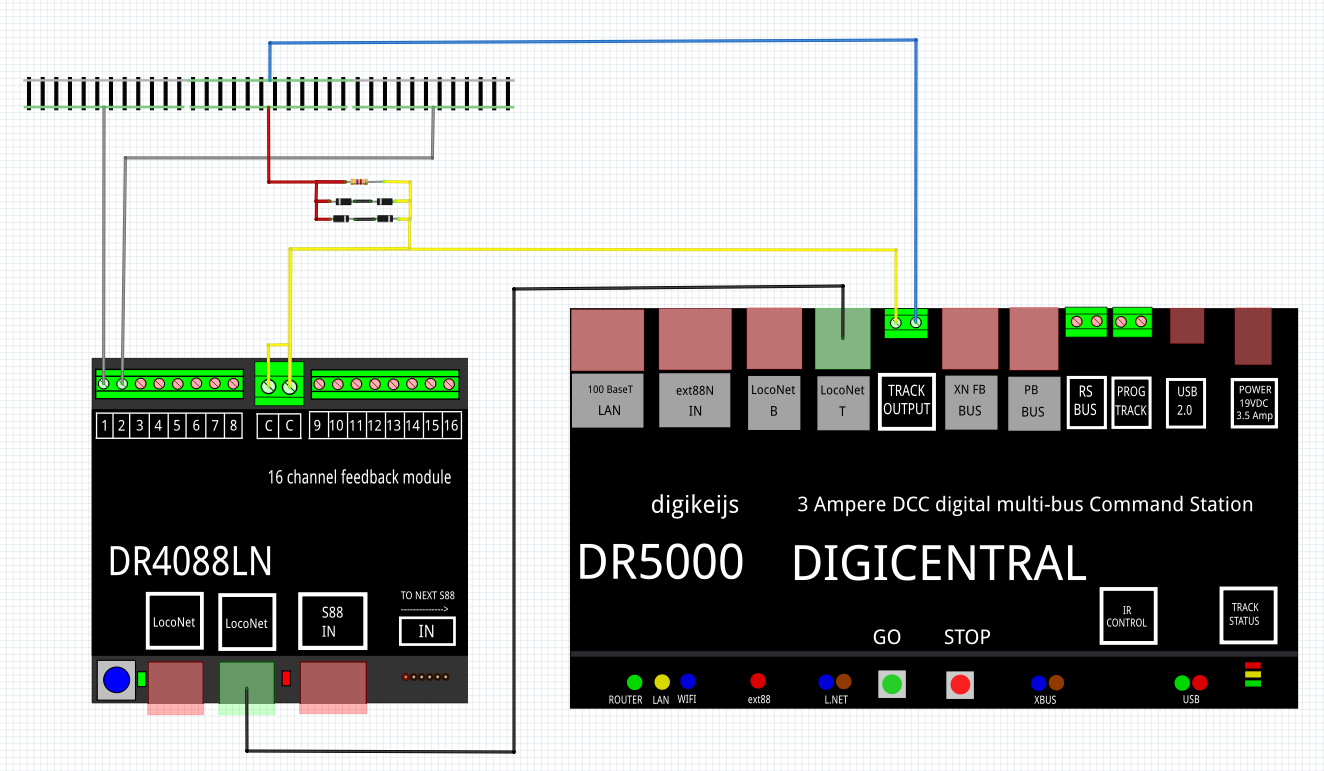
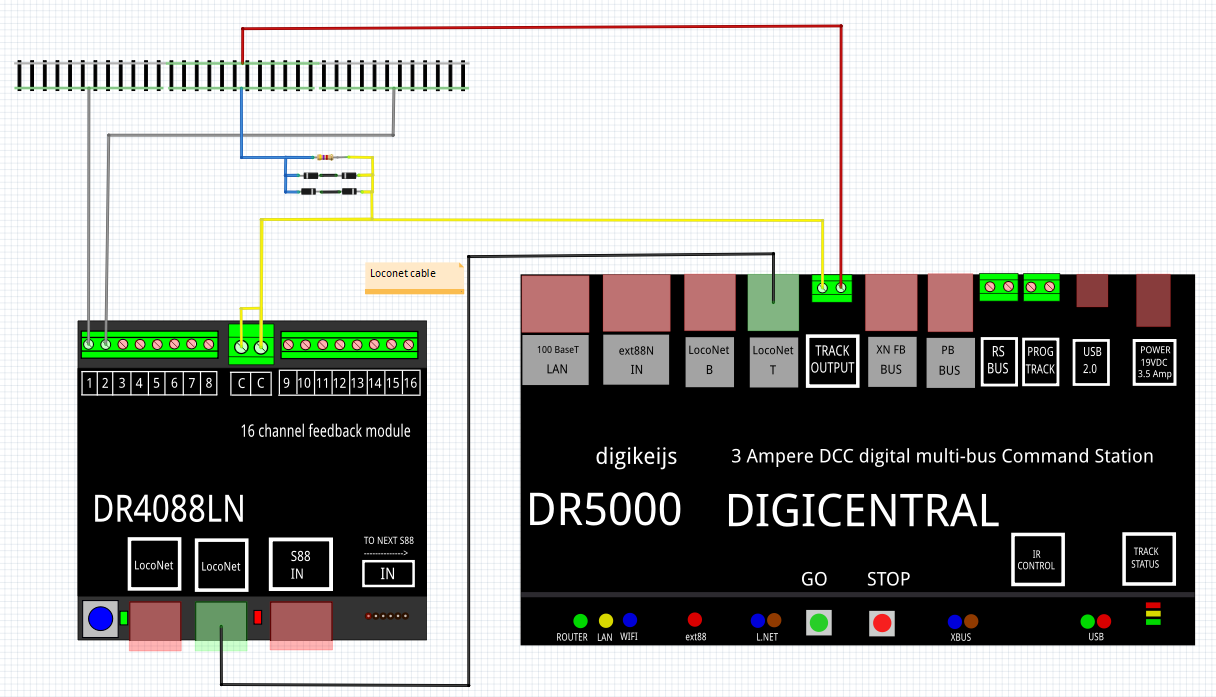
Commit

Changed region(s): [[0.0, 0.0301, 1.0, 0.9943], [0.5938, 0.693, 0.8125, 0.7532], [0.1875, 0.6026, 0.3438, 0.6327]]

diff --git a/README.md b/README.md
@@ -10,17 +10,16 @@ Eddy Luursema Februari 2020
 3.  [DR5000](/DR5000/README.md) gebruik, programmering en RocRail toepassen van het Digikeijs Command station
 4. [DR4088](/DR4088/README.md) gebruik, programmering en RocRail toepassen van de Digikeijs bezetmelder
 5. [ArSigDec](/DCCNext/README.md) gebruik, programmering en RocRail toepassen van de ArCoMoRa schakeldecoder     
-6. [Banenplannen](/Track/README.md)
+6. [Baanontwerp en elektrisch schema](/Track/README.md)
 7. [Tafelconstructie](/Table/README.md)
-8. Elektrisch schema under construction
-9. [DCC-sniffers](./DCCsniffers/README.md)
-10. [DCCplusplus](./DCCplusplus/README.md)
-11. [Gereedschappen](./Hardwaretooling/README.md)
-12. [Softwaretooling](./Softwaretooling.md) met tips voor instellingen
-13. [Fritzing](./Fritzing/README.md) teken elektrische schema's en het maken van eigen onderdelen zoals de DR4018 en seinen
-14. [Projecten](./Projects.md) in de toekomst
-15. Gebruik van [github en github-desktop](/Github/README.md) voor documentatie
-16. [Arduino cursus](/ArduinoCourse/README.md)
+8. [DCC-sniffers](./DCCsniffers/README.md)
+9. [DCCplusplus](./DCCplusplus/README.md)
+10. [Gereedschappen](./Hardwaretooling/README.md)
+11. [Softwaretooling](./Softwaretooling.md) met tips voor instellingen
+12. [Fritzing](./Fritzing/README.md) teken elektrische schema's en het maken van eigen onderdelen zoals de DR4018 en seinen
+13. [Projecten](./Projects.md) in de toekomst
+14. Gebruik van [github en github-desktop](/Github/README.md) voor documentatie
+15. [Arduino cursus](/ArduinoCourse/README.md)
 
 
 # ![English flag](./images/gb.gif)English
@@ -33,14 +32,13 @@ Eddy Luursema February 2020
 3. [DR5000](/DR5000/README.md#English) usage, programming and RocRail configuration of the Digikeijs Command Station
 4. [DR4088](/DR4088/README.md#English) usage, programming and RocRail configuration of the Digikeijs feedback module
 5. [ArSigDec](/DCCNext/README.md#English) usage, programming and RocRail configuration of the ArCoMoRa accessory decoder     
-6. [Track plans](/Track/README.md#English)
+6. [Track plan and electrical schema](/Track/README.md#English)
 7. [Table design](/Table/README.md#English)
-8. Elektrical schema under construction
-9. [DCC sniffers](./DCCsniffers/README.md#English)
-10. [DCCplusplus](./DCCplusplus/README.md#English)
-11. [Hardware tools](./Hardwaretooling/README.md#English)
-12. [Software tooling](./Softwaretooling.md#English) with hints for configuration settings
-13. [Fritzing](./Fritzing/README.md#English) drawing elektrical schemas and creating your own parts like the DR4018 and signals
-14. [Projects](./Projects.md#English) in the futuure
-15. Using [github and github-desktop](/Github/README.md#English) for documentation
-16. [Arduino course](/ArduinoCourse/README.md#English)
+8. [DCC sniffers](./DCCsniffers/README.md#English)
+9. [DCCplusplus](./DCCplusplus/README.md#English)
+10. [Hardware tools](./Hardwaretooling/README.md#English)
+11. [Software tooling](./Softwaretooling.md#English) with hints for configuration settings
+12. [Fritzing](./Fritzing/README.md#English) drawing elektrical schemas and creating your own parts like the DR4018 and signals
+13. [Projects](./Projects.md#English) in the futuure
+14. Using [github and github-desktop](/Github/README.md#English) for documentation
+15. [Arduino course](/ArduinoCourse/README.md#English)

diff --git a/DR4088/README.md b/DR4088/README.md
@@ -2,7 +2,7 @@
 
 ## Aansluitschema
 
-Volgens diverse bronnen zoals [link](https://encyclopedie.beneluxspoor.net/index.php?title=Diodeschakeling) en [link](https://www.nproject.org/nl/modelspoor-digitaal-en-dcc/diodeschakeling-voor-toepassing-in-ongedetecteerde-secties-bij-een-digitale-modelbaan) vermelden dat niet-gedetecteerde stukken rails via een diodebrug met de centrale moeten worden verbonden om zo het spanningsverlies over deze brug gelijk te maken aan het spanningsverlies over de brug in de bezetmelder. Er is maar één diodebrug in de baan; alle niet-gedetecteerde stukken rails zijn met elkaar verbonden.
+Volgens diverse Nederlandse bronnen zoals [link](https://encyclopedie.beneluxspoor.net/index.php?title=Diodeschakeling) en [link](https://www.nproject.org/nl/modelspoor-digitaal-en-dcc/diodeschakeling-voor-toepassing-in-ongedetecteerde-secties-bij-een-digitale-modelbaan) en een uit Engeland [link](http://www.wiringfordcc.com/blockdet.htm) vermelden dat niet-gedetecteerde stukken rails via een diodebrug met de centrale moeten worden verbonden om zo het spanningsverlies over deze brug gelijk te maken aan het spanningsverlies over de brug in de bezetmelder. Er is maar één diodebrug in de baan; alle niet-gedetecteerde stukken rails zijn met elkaar verbonden.
 
 Verder is de DR4088 via Loconet verbonden met de DR5000.
 
@@ -92,7 +92,7 @@ Indien in het schakelcherm logging is ingeschakeld verschijnt b.v.
 
 ## Wiring
 
-According to several Dutch sources like [link](https://encyclopedie.beneluxspoor.net/index.php?title=Diodeschakeling) and [link](https://www.nproject.org/nl/modelspoor-digitaal-en-dcc/diodeschakeling-voor-toepassing-in-ongedetecteerde-secties-bij-een-digitale-modelbaan) undetected tracks must be connected to the command station through a diode bridge to compensate the loss of voltage which must be the same as the loss of voltage over the bridge build into the detector. There is only one bridge; all undetected tracks are connected to eachother.
+According to an English source [link](http://www.wiringfordcc.com/blockdet.htm) and several Dutch sources like [link](https://encyclopedie.beneluxspoor.net/index.php?title=Diodeschakeling) and [link](https://www.nproject.org/nl/modelspoor-digitaal-en-dcc/diodeschakeling-voor-toepassing-in-ongedetecteerde-secties-bij-een-digitale-modelbaan) undetected tracks must be connected to the command station through a diode bridge to compensate the loss of voltage which must be the same as the loss of voltage over the bridge build into the detector. There is only one bridge; all undetected tracks are connected to eachother.
 
 The DR4088 is connected to the DR5000 over Loconet.
 

diff --git a/Track/README.md b/Track/README.md
@@ -14,7 +14,12 @@ De architectuur van de besturing:
 
 ![Architecture](./images/Architecture.PNG)
 
+Het elektrische schema is getoond van slechts een van de 4 DR4018. Voorlopig zijn de seinen met 3 lichten aangesloten alsof er 4 lichten zijn. Het DCC-signaal voor de DR4018 is aangesloten achter de diodebrug, omdat dit makkelijker bedraden is onder de tafel. De DR4018 ondervindt hiervan geen hinder.
+
+![ElectricSchema](./images/ElectricSchema.PNG)
+
 Het uiteindelijke [RocRail-bestand in XML](./images/plan.xml) om de baan te besturen is bijgevoegd.
+
 
 # ![English flag](../images/gb.gif)English
 
@@ -29,5 +34,9 @@ My model railroad is drawn with 3D Modelbahn Studio and with RocRail:
 The control architecture:
 
 ![Architecture](./images/Architecture.PNG)
+
+The elektrical schema is drawn with only one of four DR4018. At the moment the 3 light signals are connected as 4 light signalswith one spare connection. The DCC signal for the DR4018 is connected behind the diode bridge, because of ease of wiring under the table. The DR4018 has no problems receiving the DCC signal.
+
+![ElectricSchema](./images/ElectricSchema.PNG)
 
 The final [RocRail-file in XML](./images/plan.xml) to control my modeltrain track is available.
